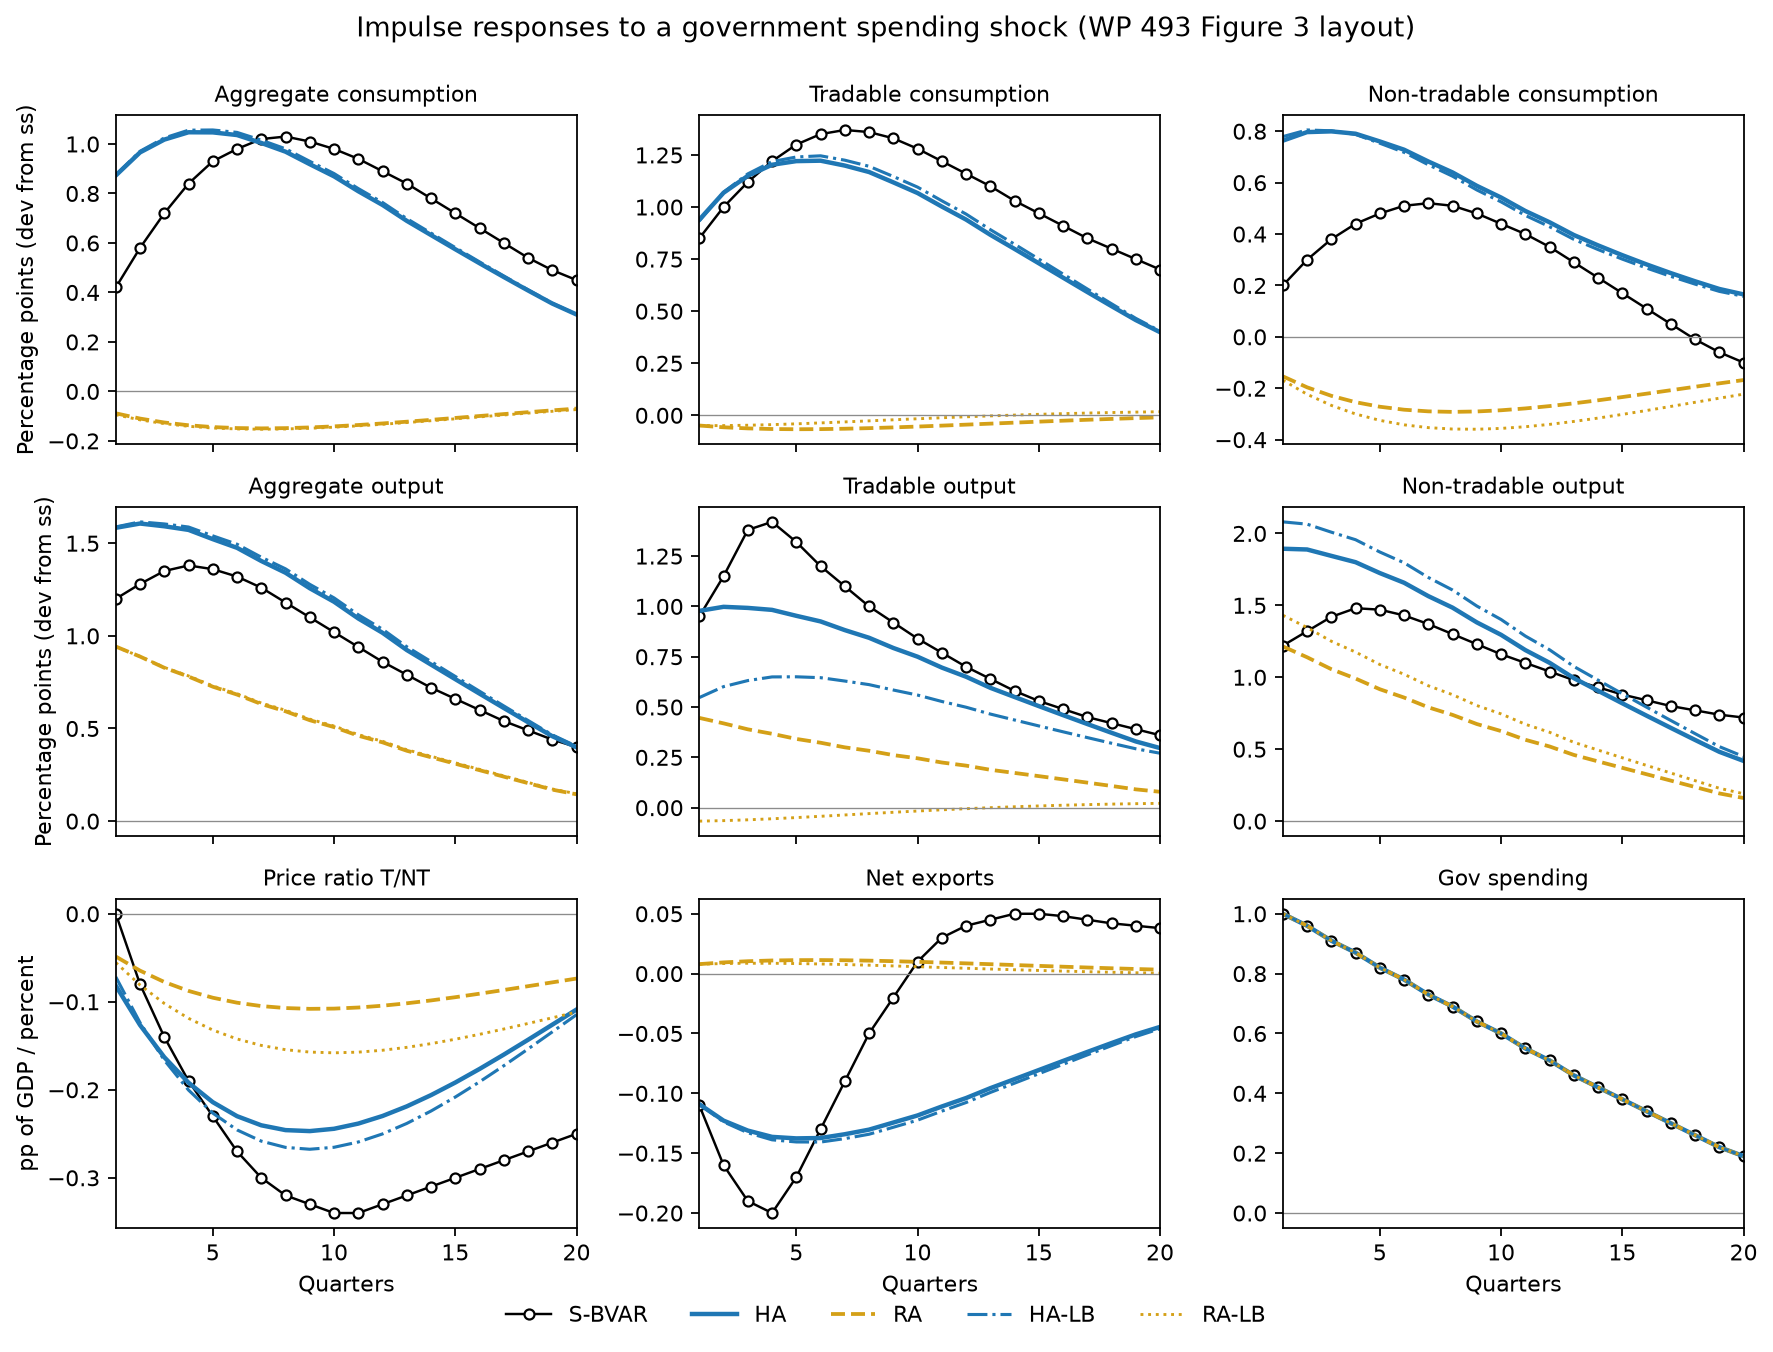
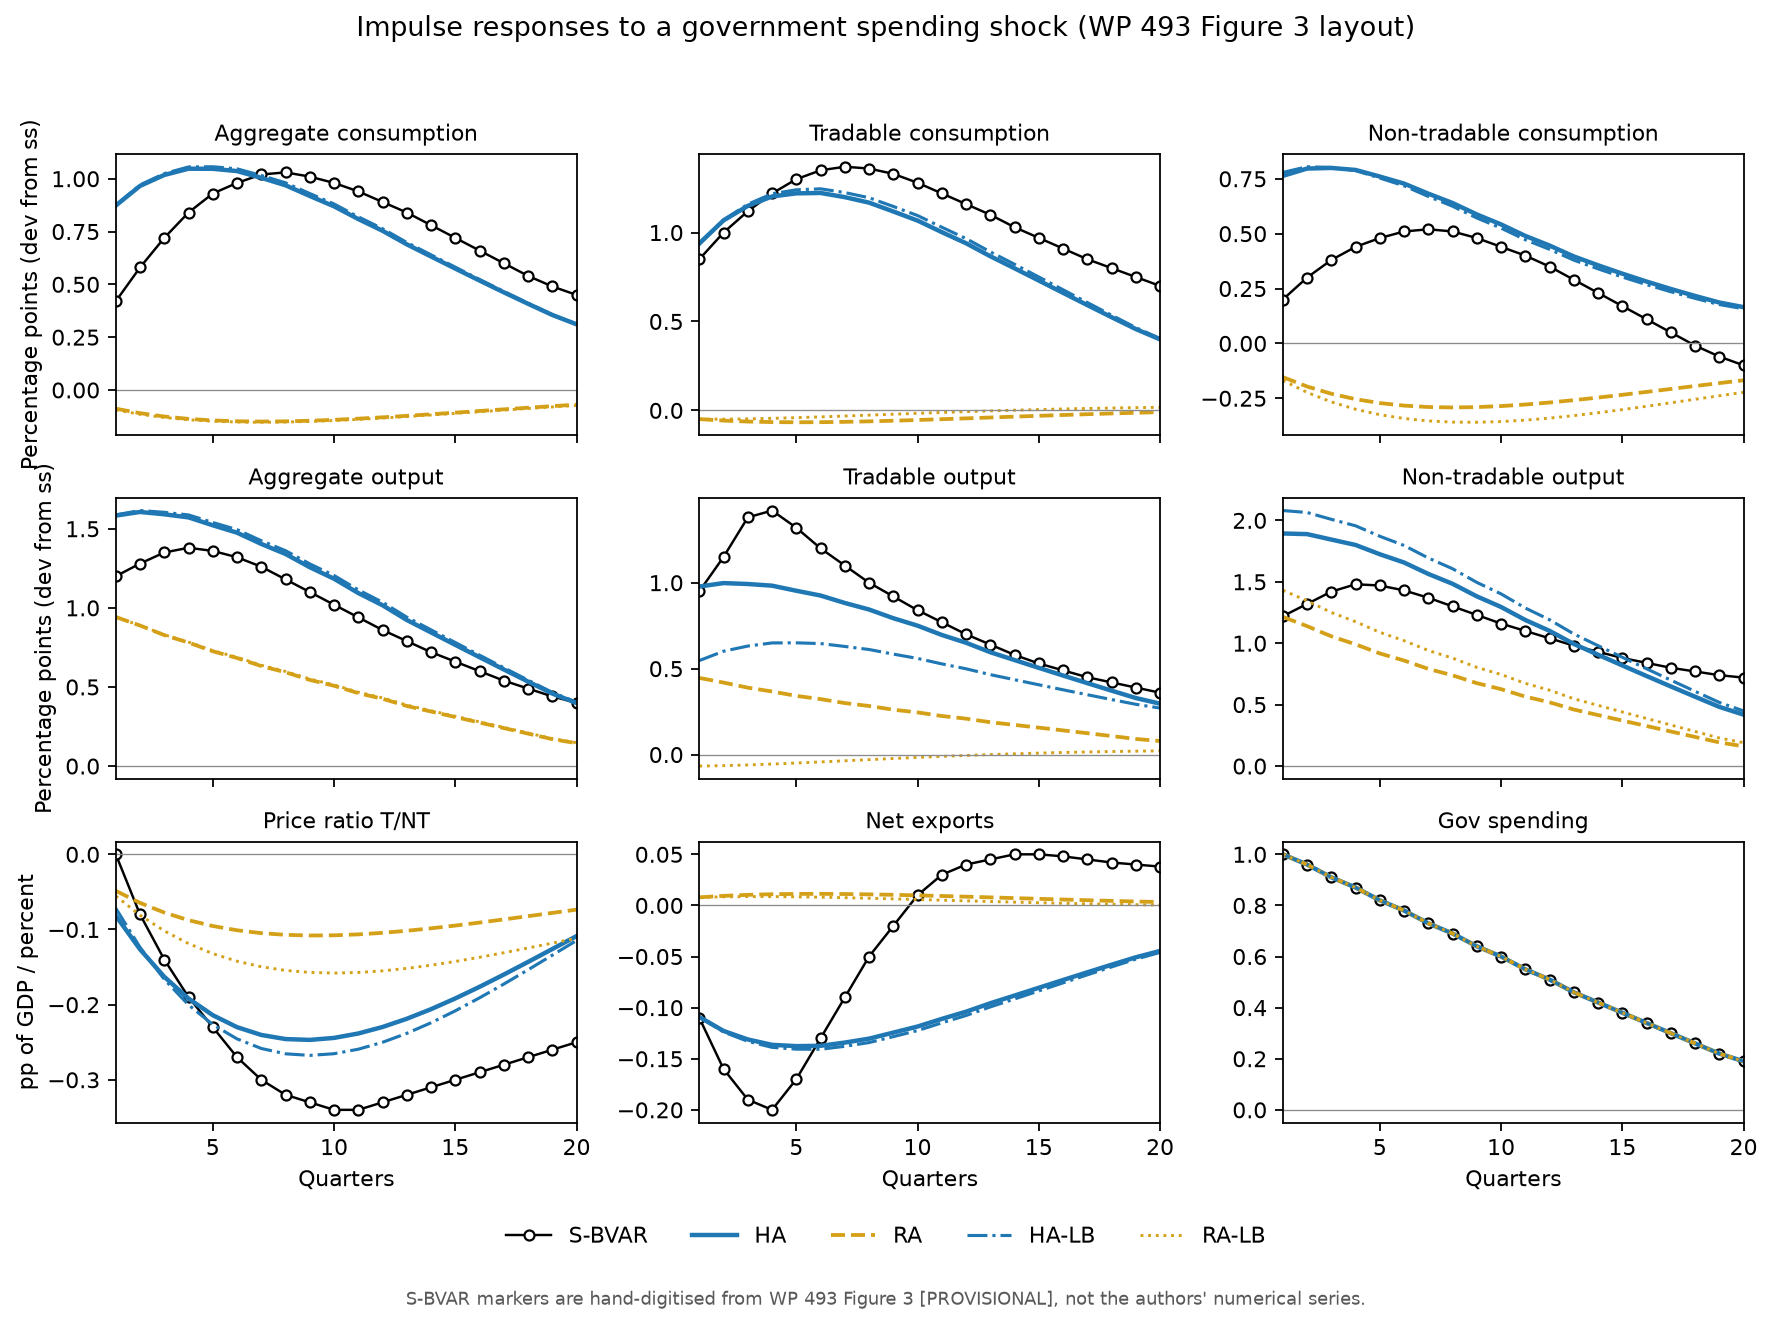
Harden WP 493 starter: pin SSJ, CLI knobs, SS guards, Walras note.
Pin sequence-jacobian to >=1.0,<2; add --sigma-e/--psi-nfa wiring and
calibration dump; assert M/Y and equal MRS at unit wages; document why
goods_NT is dropped from GE targets; add sectors.py + EXTENDING.md and a
Figure 3 footnote that S-BVAR markers are hand-digitised.

diff --git a/de-beauffort-rannenberg/src/run_figure3.py b/de-beauffort-rannenberg/src/run_figure3.py
@@ -13,6 +13,7 @@ import numpy as np
 ROOT = Path(__file__).resolve().parents[1]
 sys.path.insert(0, str(ROOT))
 
+from src.calibration import TABLE2  # noqa: E402
 from src.plot_figure3 import plot_figure3  # noqa: E402
 from src.solve_ssj import (  # noqa: E402
     irf_to_figure3_series,
@@ -37,7 +38,18 @@ def main() -> int:
     p.add_argument("--T", type=int, default=200)
     p.add_argument("--horizon", type=int, default=20)
     p.add_argument("--skip-lb", action="store_true", help="skip φ_GT=0 variants")
-    p.add_argument("--psi-nfa", type=float, default=1e-3)
+    p.add_argument(
+        "--psi-nfa",
+        type=float,
+        default=1e-3,
+        help="linear UIP NFA wedge (paper 1e-9; default 1e-3 for a stable solve)",
+    )
+    p.add_argument(
+        "--sigma-e",
+        type=float,
+        default=TABLE2["sigma_e"],
+        help="Rouwenhorst unconditional SD of log e (provisional default 0.35; Table 2 lists 0.58)",
+    )
     args = p.parse_args()
 
     out = output_dir()
@@ -50,7 +62,7 @@ def main() -> int:
     for kind in variants:
         print(f"Solving {kind} ...", flush=True)
         ss, ssdict, irf, report = solve_variant(
-            kind, T=args.T, psi_nfa=args.psi_nfa
+            kind, T=args.T, psi_nfa=args.psi_nfa, sigma_e=args.sigma_e
         )
         series = irf_to_figure3_series(irf, ss, h=args.horizon)
         packed[kind] = series
@@ -73,20 +85,40 @@ def main() -> int:
         png,
         include_sbvar=True,
     )
-    summary = {"reports": reports, "flags": flags, "figure": str(png)}
+    summary = {
+        "calibration": {
+            "sigma_e_table2": TABLE2["sigma_e_table2"],
+            "sigma_e_used": args.sigma_e,
+            "psi_nfa": args.psi_nfa,
+            "phi_GT_baseline": TABLE2["phi_GT"],
+        },
+        "reports": reports,
+        "flags": flags,
+        "figure": str(png),
+    }
     (out / "figure3_summary.json").write_text(json.dumps(summary, indent=2, default=float))
 
+    ha0 = reports[variants[0]]
     txt = []
     txt.append("de Beauffort & Rannenberg (NBB WP 493) — Figure 3 IRF summary")
     txt.append("Shock: 1% of GDP government spending, empirical-shaped path.")
+    txt.append("")
+    txt.append("Active calibration:")
+    txt.append(f"  σ_e Table 2 = {TABLE2['sigma_e_table2']}")
+    txt.append(f"  σ_e used    = {args.sigma_e}  [PROVISIONAL Rouwenhorst SD]")
+    txt.append(f"  φ_GT baseline = {TABLE2['phi_GT']}  (LB variants use 0)")
+    txt.append(f"  ψ_nfa       = {args.psi_nfa}")
+    txt.append(f"  G/Y         = {ha0['G']:.6f}")
+    txt.append(f"  HtM         = {ha0['htm']:.6f}")
+    txt.append(f"  iMPC year-1 = {ha0['impc_y1']:.6f}")
     for kind, fl in flags.items():
         txt.append(f"\n[{kind}] qualitative co-movements:")
         for k, v in fl.items():
             txt.append(f"  {k}: {v}")
         r = reports[kind]
         txt.append(
-            f"  SS: G/Y={r['G']:.4f} A={r['A']:.4f} HtM={r['htm']:.3f} "
-            f"year-1 iMPC={r['impc_y1']:.3f}"
+            f"  SS: G/Y={r['G']:.4f} φ_GT={r['phi_GT']:.4f} A={r['A']:.4f} "
+            f"HtM={r['htm']:.3f} year-1 iMPC={r['impc_y1']:.3f}"
         )
     (out / "figure3_summary.txt").write_text("\n".join(txt) + "\n")
     print(f"Wrote {png}")

diff --git a/de-beauffort-rannenberg/src/calibration.py b/de-beauffort-rannenberg/src/calibration.py
@@ -185,16 +185,44 @@ class SteadyState:
         return d
 
 
-def build_real_steady_state(phi_GT: float | None = None, psi_nfa: float = 1e-3) -> SteadyState:
+def assert_real_ss_guardrails(ss: SteadyState, import_tol: float = 1e-8, mrs_tol: float = 1e-8) -> None:
+    """Fail loudly if the unit-price SS misses the §4.1 import or MRS targets."""
+    import_share = ss.M / ss.Y
+    gap_m = abs(import_share - IMPORT_SHARE_TARGET)
+    if gap_m >= import_tol:
+        raise AssertionError(
+            f"Steady-state import share M/Y={import_share:.12f} misses "
+            f"target {IMPORT_SHARE_TARGET} by {gap_m:.3e} (tol {import_tol})."
+        )
+    if abs(ss.w_T - 1.0) > mrs_tol or abs(ss.w_NT - 1.0) > mrs_tol:
+        raise AssertionError(
+            f"MRS guardrail expects unit wages; got w_T={ss.w_T}, w_NT={ss.w_NT}."
+        )
+    gap_mrs = abs(ss.mrs_T - ss.mrs_NT)
+    if gap_mrs >= mrs_tol:
+        raise AssertionError(
+            f"Sectoral MRS not equal at unit wages: mrs_T={ss.mrs_T:.12f}, "
+            f"mrs_NT={ss.mrs_NT:.12f}, |gap|={gap_mrs:.3e} (tol {mrs_tol})."
+        )
+
+
+def build_real_steady_state(
+    phi_GT: float | None = None,
+    psi_nfa: float = 1e-3,
+    sigma_e: float | None = None,
+) -> SteadyState:
     """Unit-price SS with Y=1, NX=0, P_Z=W_S=1.
 
     `psi_nfa` is the linear UIP debt-elastic wedge. Paper Γ=exp(-1e-9 nfa);
     1e-3 is a Schmitt-Grohé–Uribe-style value used for a stable linear solve
     ([PROVISIONAL] numerical; paper's 1e-9 is recorded in NOTES.md).
+    `sigma_e` overrides Table 2 / default Rouwenhorst SD when not None.
     """
     p = dict(TABLE2)
     if phi_GT is not None:
         p["phi_GT"] = float(phi_GT)
+    if sigma_e is not None:
+        p["sigma_e"] = float(sigma_e)
 
     r = 1.0 / p["beta_ra"] - 1.0  # VERIFIED: β_RA targets 2% annual
     Y = 1.0
@@ -257,7 +285,7 @@ def build_real_steady_state(phi_GT: float | None = None, psi_nfa: float = 1e-3) 
         * (C ** p["sigma"])
     )
 
-    return SteadyState(
+    ss = SteadyState(
         beta=p["beta_ha"],
         beta_ra=p["beta_ra"],
         beta_ha=p["beta_ha"],
@@ -336,6 +364,8 @@ def build_real_steady_state(phi_GT: float | None = None, psi_nfa: float = 1e-3) 
         B_ss=np.nan,
         C_F_star=C_F_star,
     )
+    assert_real_ss_guardrails(ss)
+    return ss
 
 
 def attach_assets(ss: SteadyState, A: float) -> SteadyState:

diff --git a/de-beauffort-rannenberg/src/solve_ssj.py b/de-beauffort-rannenberg/src/solve_ssj.py
@@ -8,7 +8,7 @@ from typing import Dict
 import numpy as np
 from sequence_jacobian.classes import SteadyStateDict
 
-from .calibration import SteadyState, build_real_steady_state
+from .calibration import SteadyState, assert_real_ss_guardrails, build_real_steady_state
 from .empirical_sbvar import g_shock_level
 from .households import (
     annual_impc,
@@ -26,8 +26,13 @@ DEFAULT_T = 200
 PLOT_H = 20
 
 
-def complete_ha_ss(phi_GT: float | None = None, psi_nfa: float = 1e-3) -> tuple[SteadyState, dict]:
-    ss = build_real_steady_state(phi_GT=phi_GT, psi_nfa=psi_nfa)
+def complete_ha_ss(
+    phi_GT: float | None = None,
+    psi_nfa: float = 1e-3,
+    sigma_e: float | None = None,
+) -> tuple[SteadyState, dict]:
+    ss = build_real_steady_state(phi_GT=phi_GT, psi_nfa=psi_nfa, sigma_e=sigma_e)
+    assert_real_ss_guardrails(ss)
     ss, hh_ss = solve_ha_steady_state(ss)
     return ss, hh_ss
 
@@ -69,6 +74,10 @@ def household_report(ss: SteadyState, hh_ss) -> dict:
         "phi_l": ss.phi_l,
         "chi": ss.chi,
         "import_share": ss.M / ss.Y,
+        "sigma_e": ss.sigma_e,
+        "sigma_e_table2": ss.sigma_e_table2,
+        "phi_GT": ss.phi_GT,
+        "psi_nfa": ss.psi_nfa,
     }
 
 
@@ -77,10 +86,11 @@ def solve_variant(
     phi_GT: float | None = None,
     T: int = DEFAULT_T,
     psi_nfa: float = 1e-3,
+    sigma_e: float | None = None,
 ):
     """kind in {ha, ha_lb, ra, ra_lb, ha_fire}."""
     phi = 0.0 if kind.endswith("lb") else phi_GT
-    ss, hh_ss = complete_ha_ss(phi_GT=phi, psi_nfa=psi_nfa)
+    ss, hh_ss = complete_ha_ss(phi_GT=phi, psi_nfa=psi_nfa, sigma_e=sigma_e)
     ssdict = make_ss_dict(ss, hh_ss)
     ssdict["beta"] = ss.beta_ha if kind.startswith("ha") else ss.beta_ra
     ss.beta = ssdict["beta"]

diff --git a/de-beauffort-rannenberg/src/model.py b/de-beauffort-rannenberg/src/model.py
@@ -1,4 +1,8 @@
-"""Assemble the two-sector open-economy HANK / RANK DAG."""
+"""Assemble the two-sector open-economy HANK / RANK DAG.
+
+Domestic production is labelled by ``sectors.DOMESTIC_SECTORS`` = (T, NT).
+The blocks themselves are still explicit two-sector objects (see EXTENDING.md).
+"""
 
 from __future__ import annotations
 
@@ -9,13 +13,26 @@ from .households import household_ha, household_rank
 from .monetary import ex_post_rate, fisher, taylor_res
 from .open_economy import market_clearing, nfa_uip, trade_demand
 from .production import hours, labor_income, mrs_block, prices, wage_pcs
+from .sectors import DOMESTIC_SECTORS, NONTRADABLE, TRADABLE
 
-UNKNOWN_LIST = ["Y_T", "Y_NT", "w_T", "w_NT", "pi", "Q", "i", "B", "nfa"]
+# One Y and w per domestic sector, plus nominal / open-economy states.
+UNKNOWN_LIST = (
+    [f"Y_{s}" for s in DOMESTIC_SECTORS]
+    + [f"w_{s}" for s in DOMESTIC_SECTORS]
+    + ["pi", "Q", "i", "B", "nfa"]
+)
+
+# goods_NT is computed in market_clearing but *omitted* from targets on purpose.
+# Walras: household budget + government budget + NFA LoM ⇒ aggregate goods
+# clearing, so {asset_mkt, goods_T, goods_NT} are linearly dependent. With two
+# quantity unknowns (Y_T, Y_NT) we keep asset_mkt and goods_T (the tradable
+# identity that is not implied by G's NT bias alone). Dropping goods_NT is
+# therefore identification, not an incomplete model. See EXTENDING.md.
 TARGET_LIST = [
     "asset_mkt",
-    "goods_T",
-    "pc_T",
-    "pc_NT",
+    f"goods_{TRADABLE}",
+    f"pc_{TRADABLE}",
+    f"pc_{NONTRADABLE}",
     "uip_res",
     "cpi_res",
     "i_res",

diff --git a/de-beauffort-rannenberg/src/plot_figure3.py b/de-beauffort-rannenberg/src/plot_figure3.py
@@ -71,14 +71,23 @@ def plot_figure3(
         loc="lower center",
         ncol=5,
         frameon=False,
-        bbox_to_anchor=(0.5, -0.02),
+        bbox_to_anchor=(0.5, 0.04),
     )
     fig.suptitle(
         "Impulse responses to a government spending shock (WP 493 Figure 3 layout)",
         fontsize=12,
         y=0.995,
     )
-    fig.tight_layout()
+    fig.tight_layout(rect=(0.0, 0.08, 1.0, 0.97))
+    fig.text(
+        0.5,
+        0.012,
+        "S-BVAR markers are hand-digitised from WP 493 Figure 3 [PROVISIONAL], "
+        "not the authors' numerical series.",
+        ha="center",
+        fontsize=8,
+        color="0.35",
+    )
     path.parent.mkdir(parents=True, exist_ok=True)
     fig.savefig(path, dpi=160, bbox_inches="tight")
     plt.close(fig)

diff --git a/de-beauffort-rannenberg/src/open_economy.py b/de-beauffort-rannenberg/src/open_economy.py
@@ -1,5 +1,8 @@
 """Open-economy / trade block: CES demands, distribution, UIP, NFA.
 
+Domestic output identities are T/NT (``sectors.TRADABLE``, ``sectors.NONTRADABLE``).
+Adding a sector means another CES nest and another Y_{s} identity here.
+
 Paper §3.3–3.4. Foreign variables are held at SS (small-open-economy
 closure). Export demand uses the foreign analogue of (8)+(30) with C*
 constant — the paper writes X = C*_F / (1+μ_f) but not the foreign CES;

diff --git a/de-beauffort-rannenberg/src/production.py b/de-beauffort-rannenberg/src/production.py
@@ -1,5 +1,8 @@
 """Production, distribution, and wage Phillips curves.
 
+Domestic sectors are ``sectors.DOMESTIC_SECTORS`` = (T, NT); this file still
+implements those two explicitly (hours, MRS, wage PCs, distribution prices).
+
 Flexible prices / sticky wages (paper §3.1): P_Z = W_S so sectoral real
 prices equal sectoral real wages. Distribution costs: Corsetti–Dedola
 (paper eqs. 28–31). Wage PCs: linearized eqs. (12) with slope κ_w=0.0044.

diff --git a/de-beauffort-rannenberg/src/sectors.py b/de-beauffort-rannenberg/src/sectors.py
@@ -1,0 +1,10 @@
+"""Named domestic sectors for the two-sector DAG.
+
+The GE blocks are still hard-coded T/NT (see EXTENDING.md). These constants
+are the labels those blocks use, so a later N-sector pass has one place to
+start from without rewriting the solver in this starter.
+"""
+
+TRADABLE = "T"
+NONTRADABLE = "NT"
+DOMESTIC_SECTORS = (TRADABLE, NONTRADABLE)

diff --git a/de-beauffort-rannenberg/EXTENDING.md b/de-beauffort-rannenberg/EXTENDING.md
@@ -1,0 +1,30 @@
+# Extending the two-sector DAG
+
+This starter is a **T / NT** open-economy HANK, not a generic N-sector solver.
+`src/sectors.py` only names the current sectors:
+
+```python
+TRADABLE = "T"
+NONTRADABLE = "NT"
+DOMESTIC_SECTORS = (TRADABLE, NONTRADABLE)
+```
+
+## What is hard-coded T/NT today
+
+| Location | What to duplicate for a third domestic sector `S` |
+|---|---|
+| `src/model.py` `UNKNOWN_LIST` | `Y_S`, `w_S` (plus existing `pi, Q, i, B, nfa`) |
+| `src/model.py` `TARGET_LIST` | `pc_S`; keep **one** goods market dropped by Walras (today `goods_NT`) |
+| `src/production.py` `hours`, `mrs_block`, `wage_pcs` | extra hours/MRS/wage-PC residual |
+| `src/production.py` `prices` | extra relative price in the CPI CES |
+| `src/open_economy.py` `trade_demand` | extra CES demand and an output identity like (34)–(35) |
+| `src/calibration.py` `SteadyState` | `Y_S`, `N_S`, `w_S`, `mrs_S`, and any new share/elasticity |
+| `src/households.py` income | `Z = Σ_s w_s N_s − T` (already a sum of two terms) |
+
+Labour aggregator (paper eq. 9), government CES (`φ_GT` vs `1-φ_GT`), and the distribution block (NT services bundled into tradable retail prices) are two-sector objects: a new sector needs an explicit nesting (which CES, which distribution, tradable or not).
+
+## Suggested next step (not in this PR)
+
+Keep SSJ simple blocks, but generate the per-sector wage PC / hours / demand lines from `DOMESTIC_SECTORS` instead of copy-pasting `T`/`NT`. Do not collapse trade, UIP, and the HA Jacobian into one monolithic N-sector script.
+
+Walras reminder: household budget + government budget + NFA law of motion imply aggregate goods clearing, so **one** sectoral goods residual is omitted from `TARGET_LIST` (currently `goods_NT`). Adding a sector adds one `Y_S` unknown **and** one extra goods residual, still dropping exactly one by Walras.

diff --git a/de-beauffort-rannenberg/README.md b/de-beauffort-rannenberg/README.md
@@ -9,7 +9,7 @@ Open-source **starter** replication of:
 
 **Do not commit the PDF.** Cite the links above.
 
-**Toolkit:** Python + [Sequence-Space Jacobian](https://github.com/shade-econ/sequence-jacobian) (Auclert, Bardóczy, Rognlie, Straub 2021). The authors thank Adrien Auclert for guidance on SSJ.
+**Toolkit:** Python + [Sequence-Space Jacobian](https://github.com/shade-econ/sequence-jacobian) (Auclert, Bardóczy, Rognlie, Straub 2021). The authors thank Adrien Auclert for guidance on SSJ. Checked-in `output/figure3.png` was produced with **sequence-jacobian 1.0.0**.
 
 See **NOTES.md** for verified vs provisional claims, calibration, and blockers.
 
@@ -23,6 +23,7 @@ aggregate / tradable / non-tradable consumption and output, the T/NT price ratio
 cd de-beauffort-rannenberg
 python3 -m pip install -r requirements.txt
 python3 src/run_figure3.py
+# optional knobs: --sigma-e 0.35 --psi-nfa 1e-3
 # faster smoke (no φ_GT=0 variants):
 python3 src/run_figure3.py --T 80 --skip-lb
 python3 src/test_qualitative.py
@@ -68,9 +69,11 @@ Magnitudes and some dynamic shapes (especially the S-BVAR overlay and the NX rec
 ```
 de-beauffort-rannenberg/
   NOTES.md
+  EXTENDING.md     # how to add another domestic sector later
   README.md
   requirements.txt
   src/
+    sectors.py          # TRADABLE / NONTRADABLE labels
     calibration.py      # Table 2 + consistent SS
     households.py       # HA hetblock, RANK Euler, sticky Jacobians
     production.py       # T / NT / distribution prices, wage PCs
